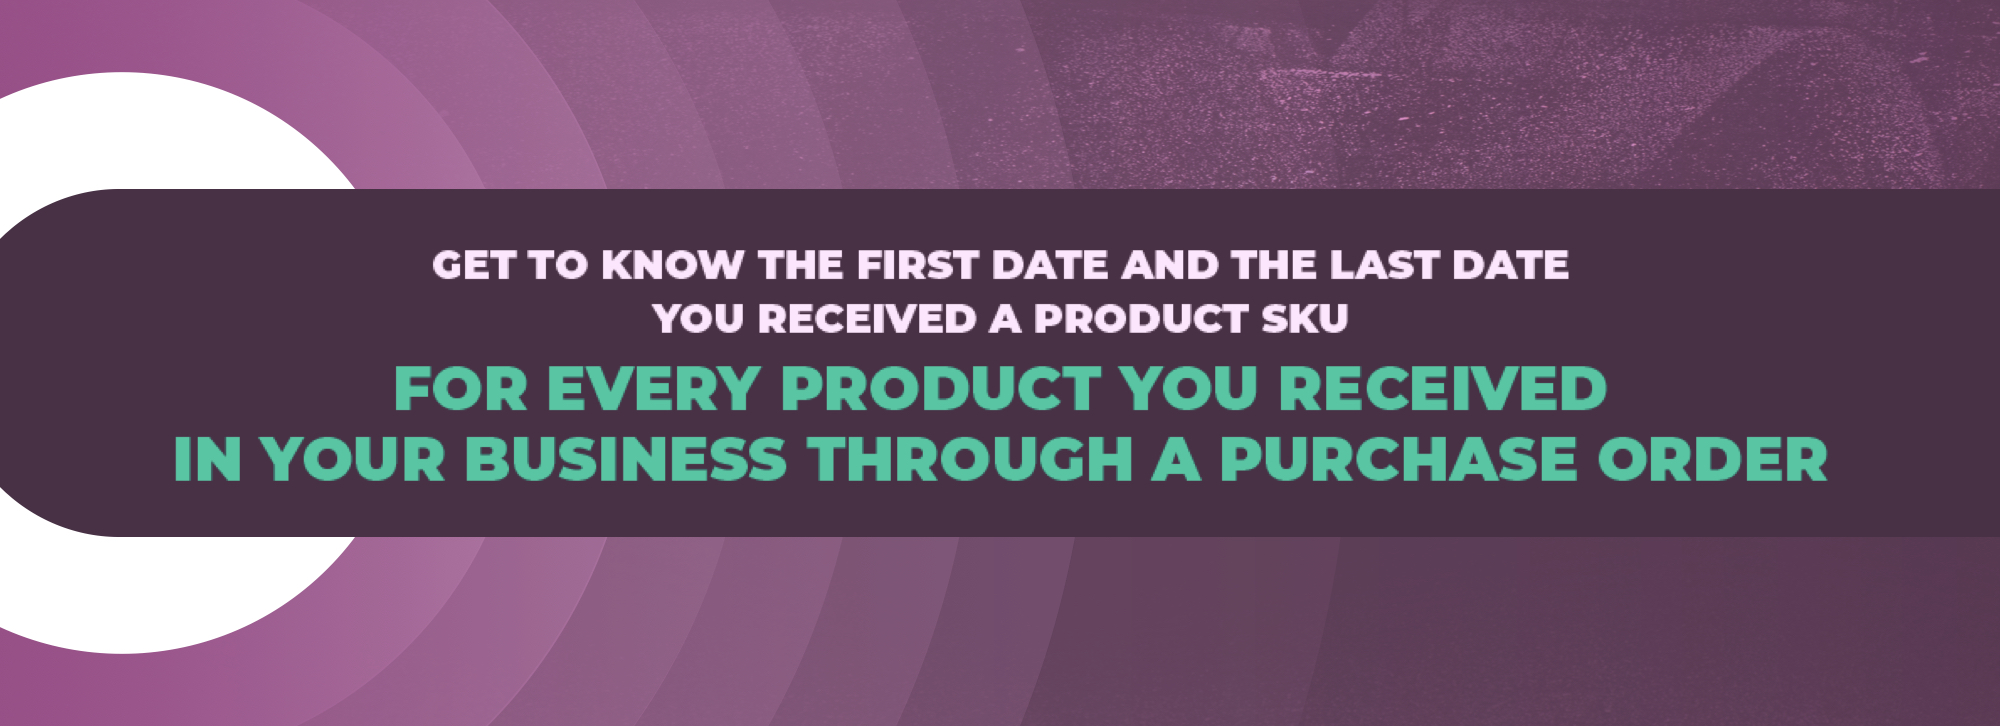
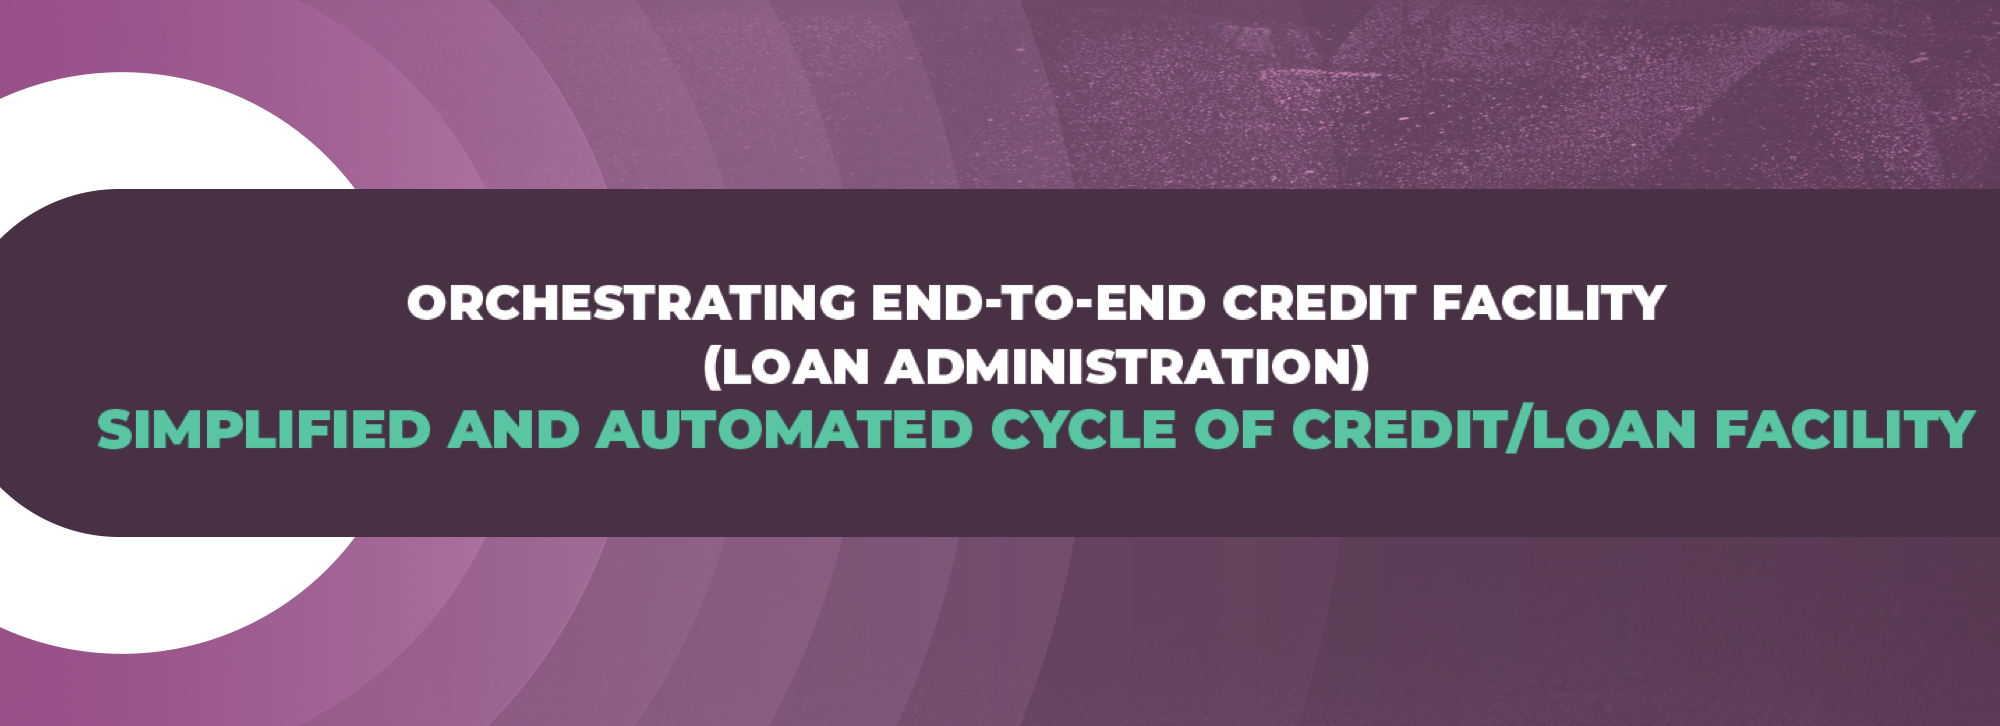
ddddddddd

Changed region(s): [[0.031, 0.3333, 0.992, 0.6667]]

diff --git a/7d_pos_test/static/description/index.html b/7d_pos_test/static/description/index.html
@@ -84,36 +84,38 @@
 
      <div
           style="background-color: #f6edf3; border-radius: 8px; padding: 20px; box-shadow: 0px 4px 8px rgba(0, 0, 0, 0.1); margin: 20px;">
-          <img src="images/features-1.png" style="width: 90px; padding: 10px 0;" />
-          <h2 style="font-size: 20px; margin-bottom: 10px;">Gives you visibility of each SKU’s first received date
-               timestamp and the last received date timestamp that was receipted through a purchase order</h2>
+          <img src="images/features 1.png" style="width: 90px; padding: 10px 0;" />
+          <h2 style="font-size: 20px; margin-bottom: 10px;">Credit facility management structured for International,
+               National and Islamic Banking system
+          </h2>
           <!-- <p>text1111111.</p> -->
      </div>
      <div
           style="background-color: #f6edf3; border-radius: 8px; padding: 20px; box-shadow: 0px 4px 8px rgba(0, 0, 0, 0.1); margin: 20px;">
-          <img src="images/features-2.png" style="width: 90px; padding: 10px 0;" />
-          <h2 style="font-size: 20px; margin-bottom: 10px;">Helps in analyzing the stock movement since you last
-               received it in your warehouse
+          <img src="images/features 2.png" style="width: 90px; padding: 10px 0;" />
+          <h2 style="font-size: 20px; margin-bottom: 10px;">Compute Interest based on Fixed and Variable Rates and
+               Repayment Cycles
+
           </h2>
           <!-- <p>text22222.</p> -->
      </div>
      <div
           style="background-color: #f6edf3; border-radius: 8px; padding: 20px; box-shadow: 0px 4px 8px rgba(0, 0, 0, 0.1); margin: 20px;">
-          <img src="images/features-3.png" style="width: 90px; padding: 10px 0;" />
-          <h2 style="font-size: 20px; margin-bottom: 10px;">Helps in identifying the stock’s age or recurrence
-               since it was first received in your warehouse</h2>
+          <img src="images/features 3.png" style="width: 90px; padding: 10px 0;" />
+          <h2 style="font-size: 20px; margin-bottom: 10px;">Auto-creates repayment journal entries for Principal and
+               Interest amounts
+          </h2>
           <!-- <p>text22222.</p> -->
      </div>
      <div
           style="background-color: #f6edf3; border-radius: 8px; padding: 20px; box-shadow: 0px 4px 8px rgba(0, 0, 0, 0.1); margin: 20px;">
-          <img src="images/features-4.png" style="width: 90px; padding: 10px 0;" />
-          <h2 style="font-size: 20px; margin-bottom: 10px;">First Received and Last Received Date/Timestamps are
-               two separate fields shown on the Inventory Report</h2>
+          <img src="images/features 4.png" style="width: 90px; padding: 10px 0;" />
+          <h2 style="font-size: 20px; margin-bottom: 10px;">Dynamic Reporting Interface
+          </h2>
           <!-- <p>text22222.</p> -->
      </div>
 </section>
 <!-- ------------------------------------------------------------------------------------------ -->
-
 
 <!----------------------- HOW IT WORKS Section ------------------------------------------------>
 <section style="
@@ -131,57 +133,50 @@
      <div
           style="background-color: #ffffff; border-radius: 8px; padding: 20px; box-shadow: 0px 4px 8px rgba(0, 0, 0, 0.1); margin: 20px;">
           <!-- <img src="images/HIW-1.png" style="width: 90px; padding: 10px 0;" /> -->
-          <h2 style="font-size: 20px; margin-bottom: 10px;">No Configuration Required, just Install and Run
+          <h2 style="font-size: 20px; margin-bottom: 10px;">The Configuration
           </h2>
-          <!-- <p>text1111111.</p> -->
+          <p>1- Facility Category: Categorize the facility types like; Infrastructure, Advertising, Equipment,
+               Inventory,
+               etc. button</p>
+          <p>2- Level of Approvals: Set the Approvers and their Bracket of Approval Amount</p>
      </div>
      <div
           style="background-color: #ffffff; border-radius: 8px; padding: 20px; box-shadow: 0px 4px 8px rgba(0, 0, 0, 0.1); margin: 20px;">
           <!-- <img src="images/HIW-2.png" style="width: 90px; padding: 10px 0;" /> -->
-          <h2 style="font-size: 20px; margin-bottom: 10px;">Can chose to view one of the two fields via
-               Developer-Mode / View-Fields</h2>
-          <!-- <p>text22222.</p> -->
+          <h2 style="font-size: 20px; margin-bottom: 10px;">The Request</h2>
+          <p>Create the Loan Request with Journal and
+               Approver details and Compute the Installments</p>
+     </div>
+     <div
+          style="background-color: #ffffff; border-radius: 8px; padding: 20px; box-shadow: 0px 4px 8px rgba(0, 0, 0, 0.1); margin: 20px;">
+          <!-- <img src="images/HIW-3.png" style="width: 90px; padding: 10px 0;" /> -->
+          <h2 style="font-size: 20px; margin-bottom: 10px;">The Approval/Rejection</h2>
+          <p>The Approvers will either Approve or
+               Reject the Loan Request</p>
+     </div>
+     <div
+          style="background-color: #ffffff; border-radius: 8px; padding: 20px; box-shadow: 0px 4px 8px rgba(0, 0, 0, 0.1); margin: 20px;">
+          <!-- <img src="images/h" style="width: 90px; padding: 10px 0;" /> -->
+          <h2 style="font-size: 20px; margin-bottom: 10px;">The Receipt</h2>
+          <p>Upon receiving the loan amount, change the
+               status to Receive</p>
+     </div>
+     <div
+          style="background-color: #ffffff; border-radius: 8px; padding: 20px; box-shadow: 0px 4px 8px rgba(0, 0, 0, 0.1); margin: 20px;">
+          <!-- <img src="images/h" style="width: 90px; padding: 10px 0;" /> -->
+          <h2 style="font-size: 20px; margin-bottom: 10px;">The Entries</h2>
+          <p>This auto-creates Journal Entries for the
+               repayments (principal and interest amounts, separately)</p>
+     </div>
+     <div
+          style="background-color: #ffffff; border-radius: 8px; padding: 20px; box-shadow: 0px 4px 8px rgba(0, 0, 0, 0.1); margin: 20px;">
+          <!-- <img src="images/h" style="width: 90px; padding: 10px 0;" /> -->
+          <h2 style="font-size: 20px; margin-bottom: 10px;">The Reporting</h2>
+          <p>The credit facility analysis reporting
+               interface is flexible to view and can be grouped/filtered as desired</p>
      </div>
 </section>
 <!-- ------------------------------------------------------------------------------------------ -->
-
-<!----------------------- Suggested Modules Section ------------------------------------------------>
-<section style="display: grid;
-     grid-template-columns:1fr 1fr 1fr;
-     grid-template-rows: auto;
-     justify-content: center;
-     padding-bottom: 50px;
-     padding-top: 50px;
-     background-color: #ffffff;
-     margin-bottom: 50px; font-family:sans-serif;">
-     <h2 style="grid-column: 1/4; text-align: center; color: #676767; font-weight: 700;">
-          SUGGESTED MODULES
-     </h2>
-     <p style="grid-column: 1/4;font-size: 15px; display: block; width: 100%; text-align: center; margin-top: 0;">Check
-          out our
-          related modules</p>
-     <div
-          style="background-color: #f6edf3; border-radius: 8px; padding: 20px; box-shadow: 0px 4px 8px rgba(0, 0, 0, 0.1); margin: 20px;">
-          <img src="images/Suggested 1 Stock_Type.png" style="width: 90px; padding: 10px;" />
-          <h2 style="font-size: 20px; margin-bottom: 10px;">Stock_Type</h2>
-          <!-- <p>text1111111.</p> -->
-     </div>
-     <div
-          style="background-color: #f6edf3; border-radius: 8px; padding: 20px; box-shadow: 0px 4px 8px rgba(0, 0, 0, 0.1); margin: 20px;">
-          <img src="images/Suggested 2 Re-Ordering.png" style="width: 90px;padding: 10px;" />
-          <h2 style="font-size: 20px; margin-bottom: 10px;">Dynamic Reordering Rules
-          </h2>
-          <!-- <p>text22222.</p> -->
-     </div>
-     <div
-          style="background-color: #f6edf3; border-radius: 8px; padding: 20px; box-shadow: 0px 4px 8px rgba(0, 0, 0, 0.1); margin: 20px;">
-          <img src="images/Suggested 3 Min-Max.png" style="width: 90px;padding: 10px;" />
-          <h2 style="font-size: 20px; margin-bottom: 10px;">Min-Max (Internal Transfers)</h2>
-          <!-- <p>text22222.</p> -->
-     </div>
-</section>
-<!-- ------------------------------------------------------------------------------------------ -->
-
 
 <!----------------------- images Section ------------------------------------------------>
 <section style="
@@ -189,18 +184,32 @@
      padding: 10px;
      font-family:sans-serif;">
      <div style="padding: 5vw 3vw;">
-          <a href="https://www.youtube.com/embed/863SgzIh9Uc" target="_blank"
-               style="text-decoration: none; display: block; text-align: center;">
-
-               <img src="images/10_video_img_1.jpeg" alt="Image 1"
+          <a target="_blank" style="text-decoration: none; display: block; text-align: center;">
+               <img src="images/1- Adding a Bank.png" alt="Image 1"
                     style="width:80%; box-shadow: 0px 4px 8px rgba(0, 0, 0, 1);">
           </a>
      </div>
      <div style="padding:5vw 3vw;">
-          <a href="https://www.youtube.com/embed/V5UWnckasSs" target="_blank"
-               style="text-decoration: none; display: block; text-align: center;">
-
-               <img src="images/10_video_img_2.jpeg" alt="Image 2"
+          <a target="_blank" style="text-decoration: none; display: block; text-align: center;">
+               <img src="images/2- Adding Line of Approvers.png" alt="Image 2"
+                    style="width:80%;box-shadow: 0px 4px 8px rgba(0, 0, 0, 1);">
+          </a>
+     </div>
+     <div style="padding:5vw 3vw;">
+          <a target="_blank" style="text-decoration: none; display: block; text-align: center;">
+               <img src="images/3- Creating a Credit Category step 1.png" alt="Image 2"
+                    style="width:80%;box-shadow: 0px 4px 8px rgba(0, 0, 0, 1);">
+          </a>
+     </div>
+     <div style="padding:5vw 3vw;">
+          <a target="_blank" style="text-decoration: none; display: block; text-align: center;">
+               <img src="images/4- Creating a Credit Category step 2.png" alt="Image 2"
+                    style="width:80%;box-shadow: 0px 4px 8px rgba(0, 0, 0, 1);">
+          </a>
+     </div>
+     <div style="padding:5vw 3vw;">
+          <a target="_blank" style="text-decoration: none; display: block; text-align: center;">
+               <img src="images/5- List View of Loan Requests.png" alt="Image 2"
                     style="width:80%;box-shadow: 0px 4px 8px rgba(0, 0, 0, 1);">
           </a>
      </div>
